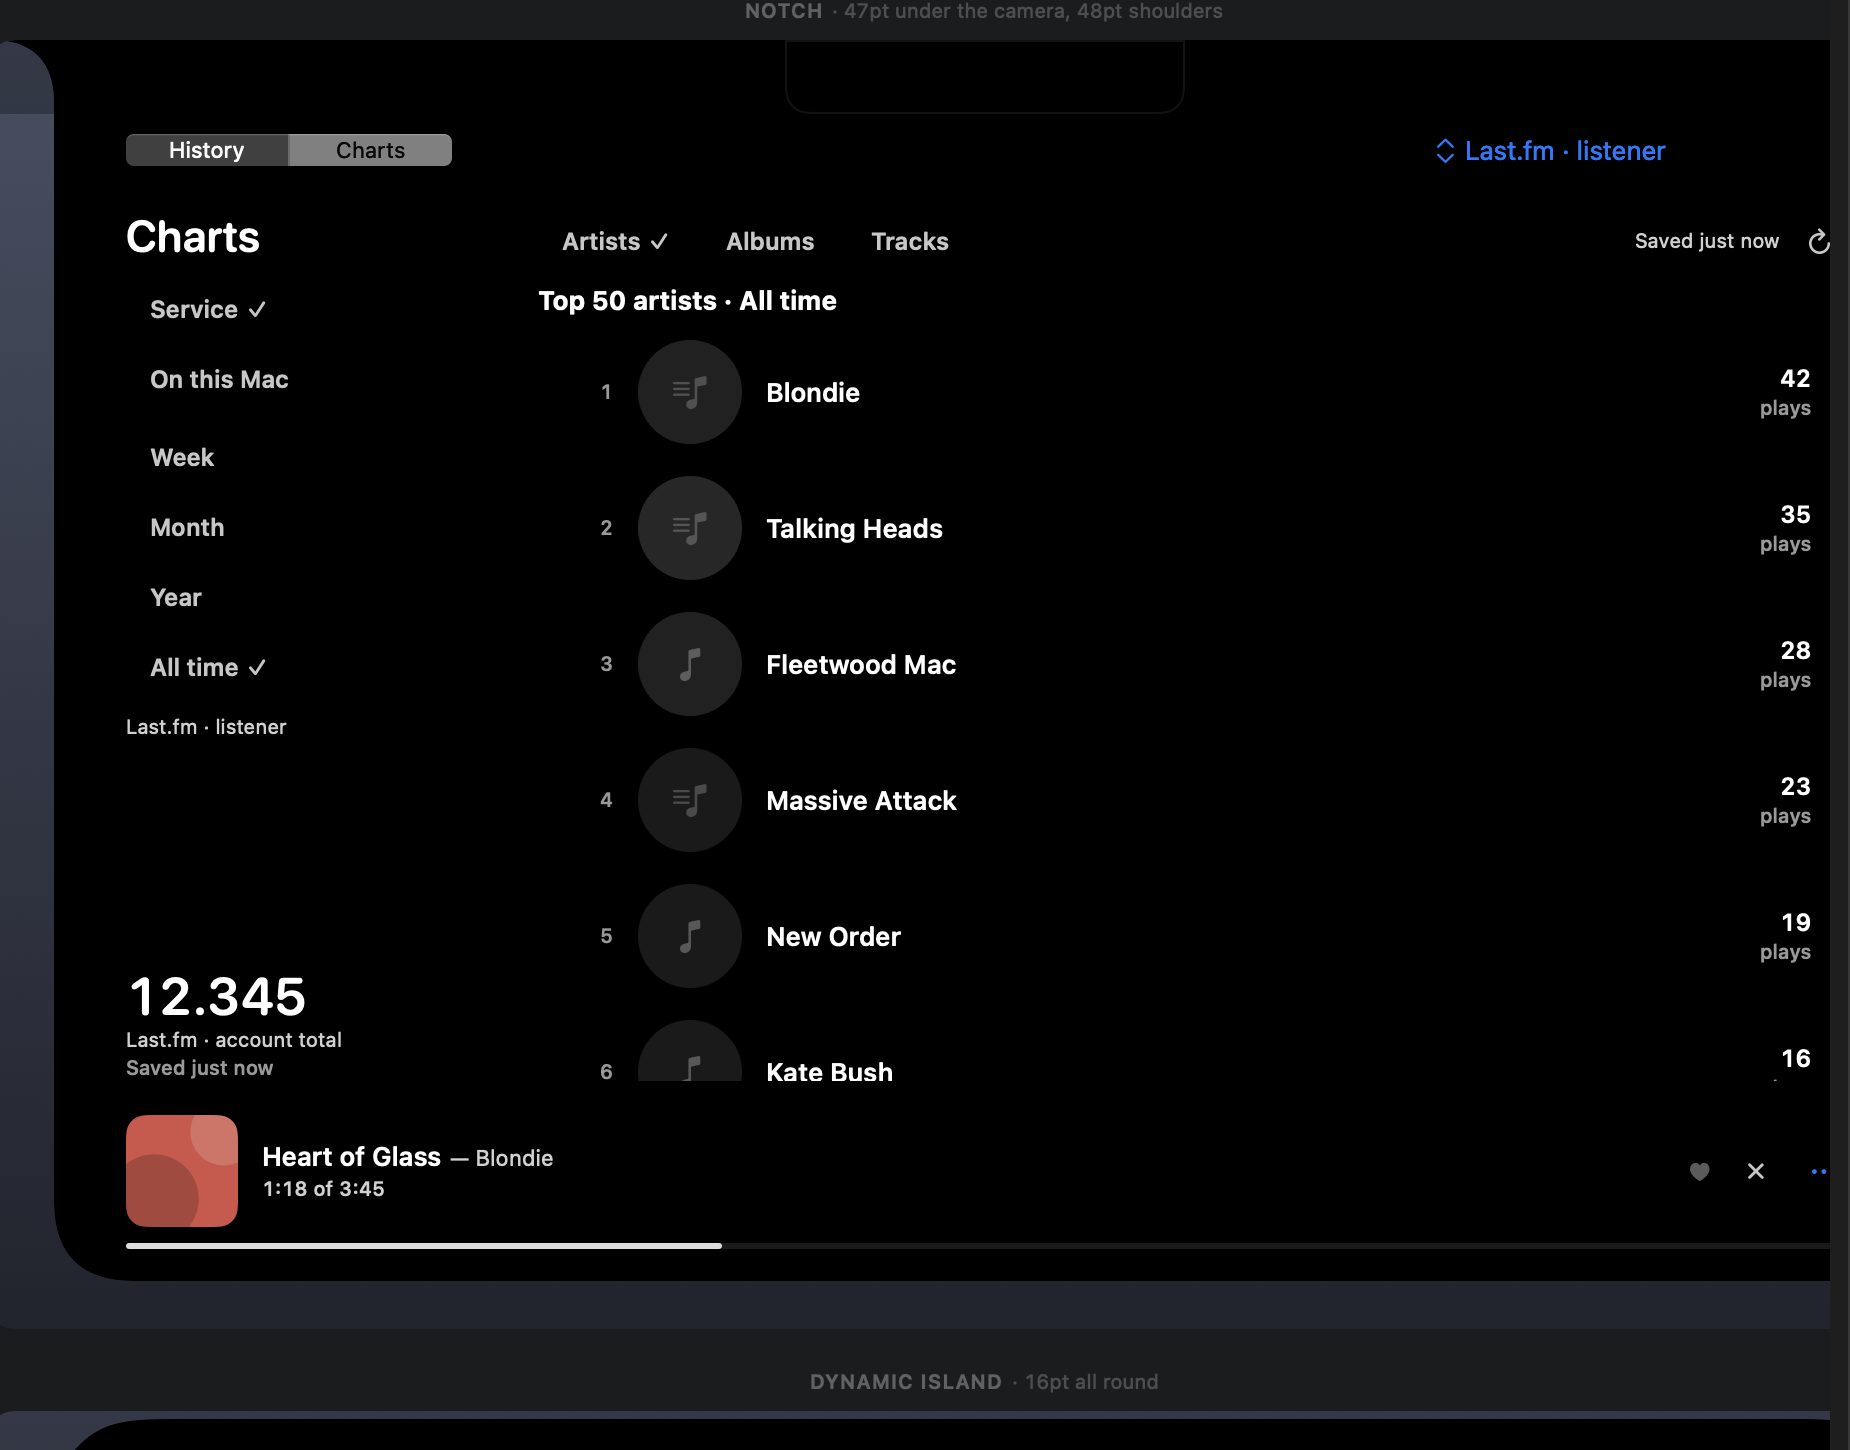
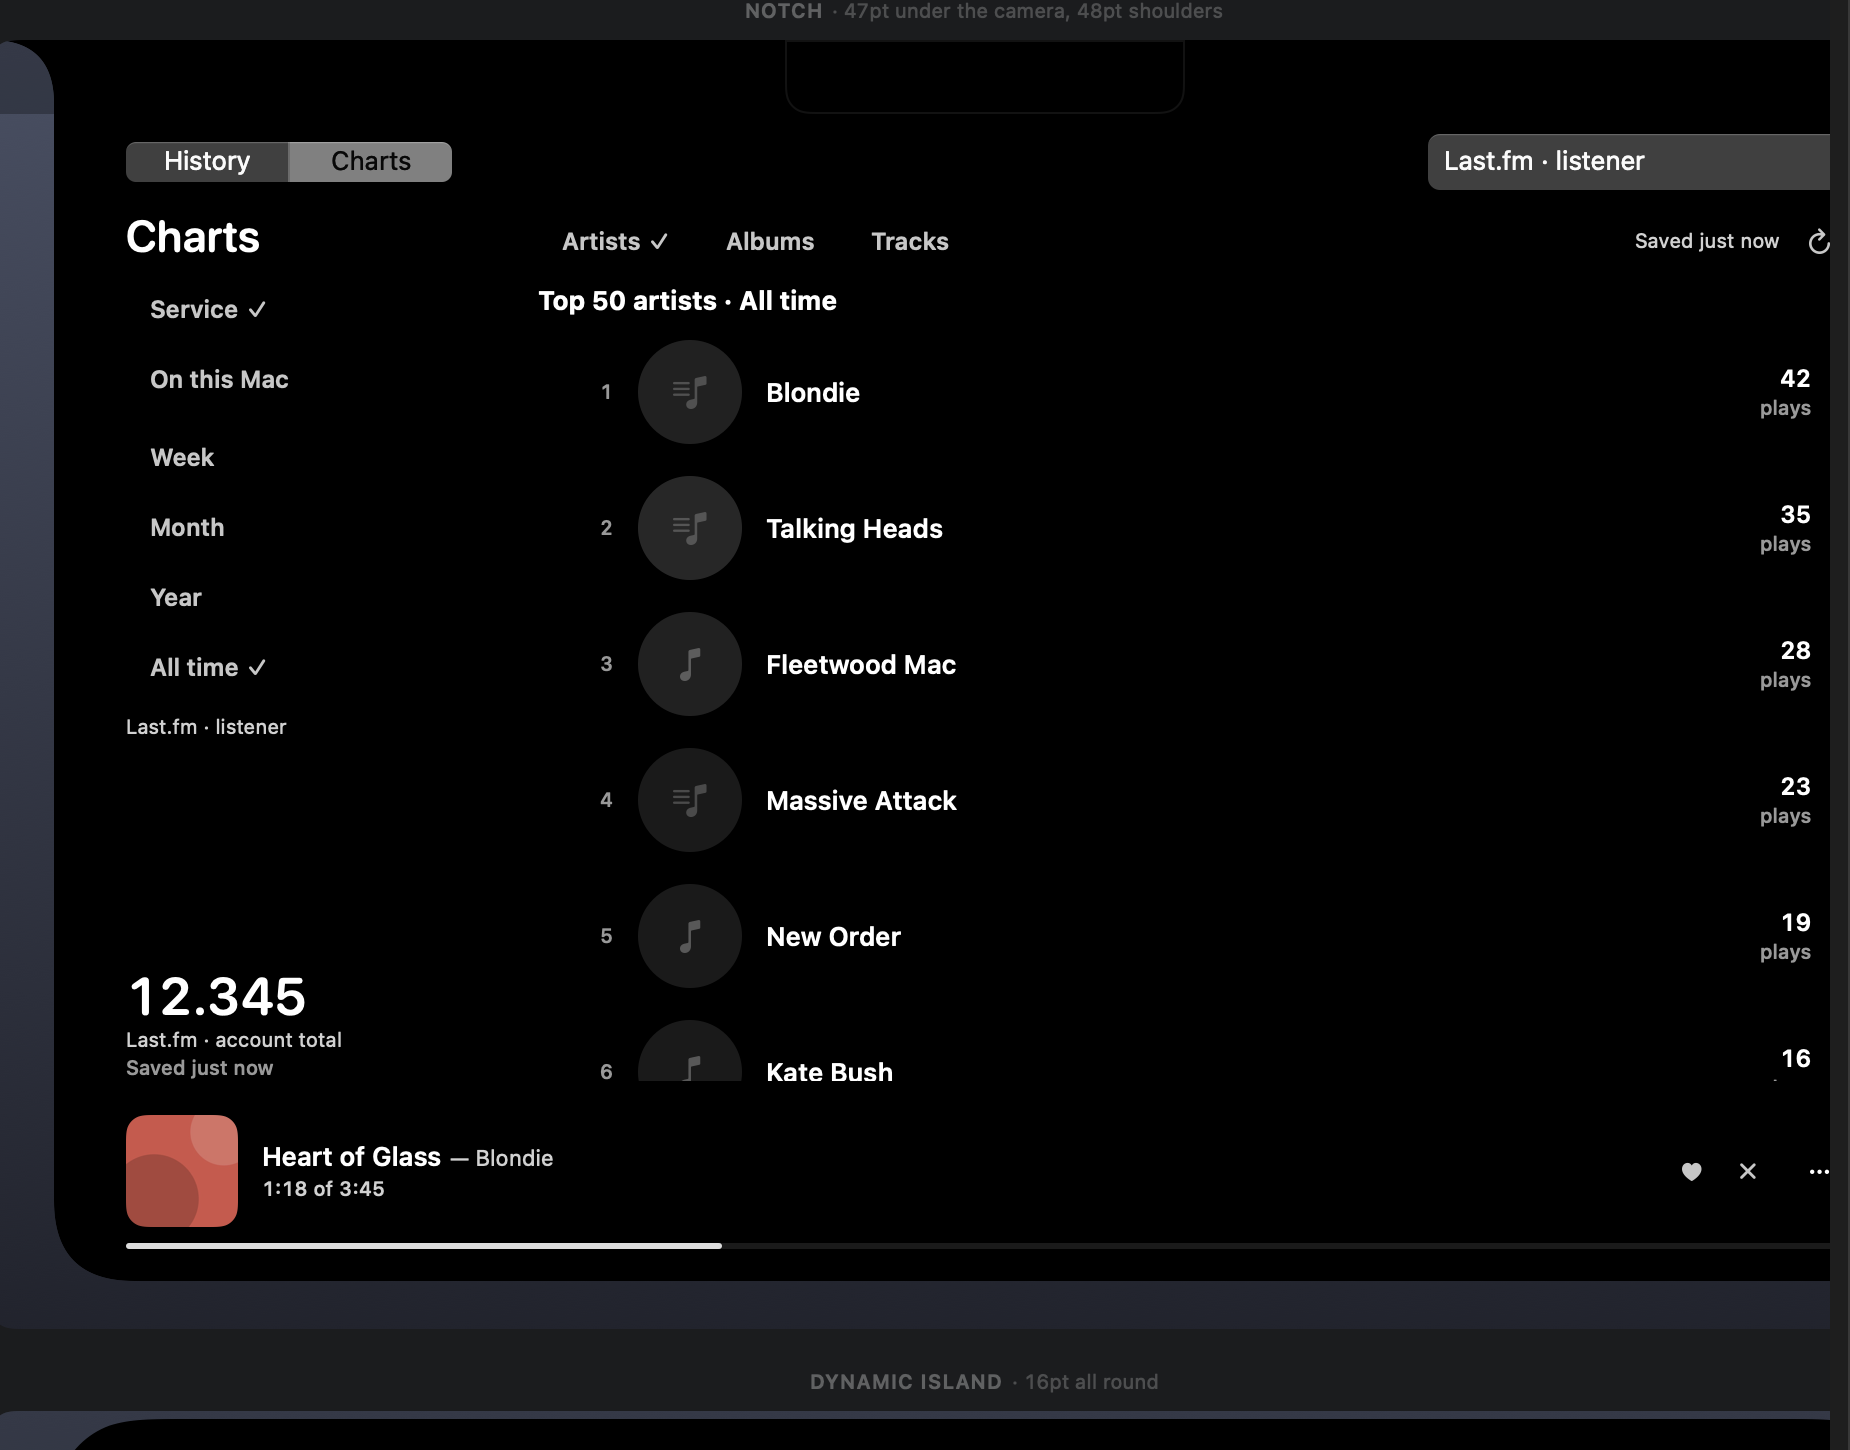
docs: address core charts review findings

Changed region(s): [[0.7703, 0.0931, 1.0, 0.1552], [0.0616, 0.0931, 0.2465, 0.1241]]

diff --git a/docs/reports/issue-80-core-charts.md b/docs/reports/issue-80-core-charts.md
@@ -1,9 +1,9 @@
 # Issue #80 Core charts — worker report
 
 - Base: `c0bcd20c6bd5778ba648e0207283531ce50dc71d` (`feat: build ListenBrainz charts (#110)`)
-- Gate head: `8c9229e58949242366795a7962b011c85863f7f0` (`fix: keep chart sign-in remedy accurate`)
+- Gate head: `dc89e13287da35ed283038682e6782d8766cbd80` (`fix: meet chart takeover target sizes`)
 - Branch: `feat/core-charts-80`
-- State: committed locally, not pushed. This report commit adds documentation and evidence only.
+- State: committed locally, not pushed. Review fixes F1–F3 are included; this report commit adds documentation and evidence only.
 - Scope: CH-01, the accepted CH-02 subset, supported CH-07 totals and CH-08 refresh. Part of #76; it does not close #76 or #77 and makes no Store or milestone-complete claim.
 
 ## Contract reconciliation
@@ -65,9 +65,9 @@ Command on the gate head:
 ```
 
 - Exit `0`, frozen gate `true`, clean before and after.
-- Receipt: `/Users/ranokay/.local/state/agent-tools/gates/20261104T014619Z-60bcd71c9002.json`
-- Log: `/Users/ranokay/.local/state/agent-tools/gates/20261104T014619Z-60bcd71c9002.log`
-- Duration: 728.8 seconds.
+- Receipt: `/Users/ranokay/.local/state/agent-tools/gates/20261104T023053Z-0e25911237d5.json`
+- Log: `/Users/ranokay/.local/state/agent-tools/gates/20261104T023053Z-0e25911237d5.log`
+- Duration: 709.8 seconds.
 
 | Command | Observed |
 | --- | --- |
@@ -106,10 +106,55 @@ Selected images are in `docs/reports/issue-80/`; each chart image is the notch p
 | `charts-feed-unavailable` | feed-unavailable | absent (no now-playing) |
 
 - Increase Contrast draws row separators; Reduce Motion produced `Tracklog motion: reduced crossfade 0.16s` in the gate log (copied to `docs/reports/issue-80/reduced-motion.log`).
-- ListeningBrainz shows `Returned span … · data ends … · statistics updated …` in the completed week. All time shows `12,345 Last.fm · account total`, `Saved just now`; total-failure keeps the ranked rows and shows `Account total unavailable`.
+- ListenBrainz shows `Returned span … · data ends … · statistics updated …` in the completed week. All time shows `12,345 Last.fm · account total`, `Saved just now`; total-failure keeps the ranked rows and shows `Account total unavailable`.
 - Local shows `6 local listens` and `Custom`; local-empty shows `0` with `No listens in this range`; local-missing-metadata shows `No album details in this range` with `2 listens are still included in the range total`.
 - Libre.fm: `Libre.fm has no charts API. Showing this Mac's history.` No connection: `No connection selected` with `Use local history` and `Open Services settings`.
 - Rate-limited-saved keeps saved rows and age with `Rate limited · showing saved charts`; app-credentials and needs-sign-in show distinct remedies; the needs-sign-in no-saved copy was corrected to `Sign in again in Settings, or use this Mac's local history.`
+
+### Harness shot viewport (F2)
+
+The raw `--shots` pages are 2360 × 3800 px (1180 × 1900 pt). The expanded
+surface content is 898 × 557 (AXStaticText). The shot page is narrower than the
+laid-out surface, so every raw chart PNG clips the surface's right edge: the
+Refresh control and the third overflow dot sit at the page boundary, and the
+panel's right rounded corner is outside the page. This is the harness shot
+viewport, not layout overflow:
+
+- Window: 1320 × 940 at global origin (240, 87), right edge x 1560.
+- Surface content: 898 × 557.
+- Right-most controls: Refresh and More x 1463..1487; Cancel x 1427..1451;
+  Love x 1399..1423; connection popup x 1279..1487.
+- All right-most controls end at least 73 pt before the window's right edge,
+  and the connection popup is inside the 898 pt content.
+
+`docs/reports/issue-80/ax/harness-window.png` is a native 2640 × 1880 window
+capture showing the full panel right edge, the Refresh control and the
+overflow circle. DroppyKit's harness has no width option (`--shot-height`
+only), so the raw shot limit is recorded rather than worked around. The
+committed chart images are notch-panel crops of the raw shots and inherit the
+same right-edge clip.
+
+### Round-1 findings
+
+- **F1 fixed.** The section picker was 21 pt (`controlSize(.small)`), the
+  connection menu 15 pt, and the playing/states overflow menu 20 × 14 pt; the
+  Love control was disabled in the harness because its Last.fm adapter did not
+  declare love support. The picker is now `.regular` (24 pt), the connection
+  switcher is a native menu-style `Picker` (208 × 28), both overflow menus use
+  `DroppyCircleButtonStyle(size: 24)` (24 × 24), and the harness adapter
+  declares love support. Every chart takeover control is listed with its
+  measured frame in `ax/frames.txt`; the affected normal, loading, failed,
+  failed-saved, paused, off, long-names and needs-sign-in shots were
+  re-inspected.
+- **F2 resolved as a harness viewport limit.** See the section above; the
+  window capture shows the full right edge. No production layout change was
+  needed.
+- **F3 fixed.** The owner install command now replaces the bundle directory
+  with `rm -rf` + `cp -R` and leaves the sibling `Container` untouched; the
+  scratch proof is in `docs/reports/issue-80/install-proof.txt` (`diff -r`
+  exit 0 and `Container/sub/keep.txt` preserved). The VoiceOver commands use
+  the real fixture value `local`, and the `ListeningBrainz` typo is corrected
+  to `ListenBrainz`.
 
 ## Interactive harness walk
 
@@ -117,7 +162,7 @@ Readouts are committed under `docs/reports/issue-80/ax/`; the method and evidenc
 
 - Service fixture (`charts-normal`, playing, Last.fm · listener): 15 AX presses covering artists, albums and tracks across Week, Month, Year and All time; every heading expectation matched. Row labels and values include `Rank 1, Blondie, 42 plays` / `Last.fm · listener, Rolling 7 days`; 8 rows per type.
 - Local mode, reached by `On this Mac`: 18 AX presses covering all three types across Today, Week, Month, Year and All time; every heading expectation matched. Local rows read `Rank 1, Blondie, 2 listens` / `On this Mac, This week`; the observed total was `7 local listens` after the harness playback source added one listen.
-- Source switching: Service → On this Mac → Service replaced both rows and source notes; no service row remained under local, and no local row remained after switching back.
+- Source switching: Service → On this Mac → Service replaced both rows and source notes; no service row remained under local, and no local row remained after switching back. The connection popup was also opened, switched to `No connection` (source note `No connection selected`) and back to `Last.fm · listener`; the selection took effect each time.
 - Failed-saved refresh: pressing Refresh kept `Offline · showing saved charts`, `Saved 2 hr ago`, the saved detail and the ranked rows; the saved age was not replaced with `Saved just now`.
 - Repeated Reload on `charts-loading`: three Reload presses, then `AXBusyIndicator (Loading charts)` and `First load` with the playing strip; after the 30-second fixture delay the rows appeared as `Rank 1, Blondie, 42 plays` with `Saved just now`. No early obsolete publish was observed. The Activity page contained no `error` or `Tracklog activated` text and the harness chrome showed `Active`. Interactive mode has no `report.json`; the equivalent gate report `reports/charts-loading.json` is `problems: []`.
 - Custom: pressing `Custom` produced no AX change — the harness refuses the host Settings call. This is harness wiring only; the real host handoff is not passed.
@@ -129,8 +174,8 @@ The checklist used is `docs/accessibility/voiceover-checklist.md`. AX-tree inspe
 | Requirement | Result | State and method |
 | --- | --- | --- |
 | Rank, item, count and source speech | Passed (AX) | Service and local rows: label `Rank 1, … , 42 plays`; value `Last.fm · listener, Rolling 7 days` or `On this Mac, This week`. |
-| Selected controls expose state | Passed (AX) | Type, source and period buttons expose `Selected` / `Not selected`; the section is a radio group; the connection menu exposes `Last.fm, listener`. |
-| 24-point targets | Passed (AX) | Refresh 24×24; chart-type and period choices 63.5×31; ranked rows 606×52. |
+| Selected controls expose state | Passed (AX) | Type, source and period buttons expose `Selected` / `Not selected`; the section is a radio group; the connection popup exposes label `Current connection` and value `Last.fm · listener`. |
+| 24-point targets | Passed (AX) | Every interactive chart control measured: section `History` 85×24 and `Charts` 84×24; connection popup 208×28 and its `No connection` item 220×24; source/type/period choices 31 high (including `Today` and `Custom`); Refresh 24×24; failure `Try again` 78.5×31, `Open Services settings` 161×31, `Use local history` 122.5×31; notice `Try again` 78.5×31; playing-strip Love 24×24, Cancel 24×24, More 24×24; paused `Resume` 71×31 and More 24×24; off `Turn on` 69×31 and More 24×24. Details in `ax/frames.txt`. |
 | Reduce Motion | Passed (configured path) | Gate run with `TRACKLOG_HARNESS_REDUCE_MOTION=1`; log `Tracklog motion: reduced crossfade 0.16s`; `AccessibilityMotionTests` asserts < 0.2 s. No frame timing measured. |
 | Increase Contrast | Passed (rendered) | `charts-contrast` shot shows row separators; production reads the real contrast environment, the harness override only reaches the same path. |
 | Distinct empty/not-ready/failure copy | Passed (rendered) | Separate shots for empty, not-ready, failed, failed-saved, rate-limited-saved, app-credentials, needs-sign-in, no-connection and Libre fallback. |
@@ -163,14 +208,16 @@ No version bump, Store submission, credential change, capability change or depen
 
 1. **Real Playground load and Custom handoff.** Run:
    ```sh
-   cp tracklog/.build/Tracklog.droplet "$HOME/Library/Application Support/Droppy Playground/Droplets/tracklog/Tracklog.droplet"
+   DEST="$HOME/Library/Application Support/Droppy Playground/Droplets/tracklog"
+   rm -rf "$DEST/Tracklog.droplet"
+   cp -R tracklog/.build/Tracklog.droplet "$DEST/Tracklog.droplet"
    open -a "Droppy Playground"
    ```
-   Confirm the Store row reports the bundle loaded, open Charts, press Custom, and confirm the takeover dismisses and the Charts Settings page opens. This was outside the repository/permission limit.
+   This replaces only the bundle directory; the sibling `Container` directory is left untouched. The replacement was proven against a scratch Playground layout under the ignored `.scratch` path: `diff -r` printed nothing and exited 0, and `Container/sub/keep.txt` survived (`docs/reports/issue-80/install-proof.txt`). Confirm the Store row reports the bundle loaded, open Charts, press Custom, and confirm the takeover dismisses and the Charts Settings page opens. This was outside the repository/permission limit.
 2. **Live service smoke.** In Playground with the owner's test accounts, link Last.fm, ListenBrainz and Libre.fm, play one test track past the minimum duration, and confirm Last.fm recent tracks, ListenBrainz listens and Libre.fm scrobbles. No live credentials or production writes were used here.
 3. **Audible VoiceOver.** With VoiceOver enabled by the owner, run the Charts states and follow `docs/accessibility/voiceover-checklist.md`. For example:
    ```sh
    cd tracklog
    TRACKLOG_DEMO_STATE=playing TRACKLOG_HARNESS_CHARTS=normal TRACKLOG_HARNESS_SECTION=charts droppykit run
    ```
-   Then repeat with `charts-local` and `failed-saved`. This run did not change an OS accessibility setting or approve a prompt.
+   Then repeat with `TRACKLOG_HARNESS_CHARTS=local` and `TRACKLOG_HARNESS_CHARTS=failed-saved` (the fixture value is `local`; `charts-local` is only the shot directory name). This run did not change an OS accessibility setting or approve a prompt.

diff --git a/docs/reports/issue-80/ax/method.md b/docs/reports/issue-80/ax/method.md
@@ -1,10 +1,12 @@
 # Interactive harness AX walk — method
 
-- Date: 2026-11-04, 03:40–03:50 local time.
+- Date: 2026-11-04, 03:40–04:35 local time.
 - App: `/Users/ranokay/.t3/worktrees/tracklog/t3-f84360fe/tracklog/.build/TracklogHarness.app`
   (`TracklogHarness`, window `Tracklog — DroppyKit harness`).
 - Fixtures: `TRACKLOG_HARNESS_CHARTS=normal` (playing), `failed-saved` (playing),
   and `loading` (playing), each with `TRACKLOG_HARNESS_SECTION=charts`.
+  The round-1 control frames in `frames.txt` were re-measured after the fixes
+  on the same app at about 04:30–04:35, including paused, off and local states.
 - Method: the running harness window was shown in the **Expanded surface**
   page and driven with Cua Driver background AX presses (`AXPress` on
   `AXButton` elements by role/name); observations are AX-tree reads from the
